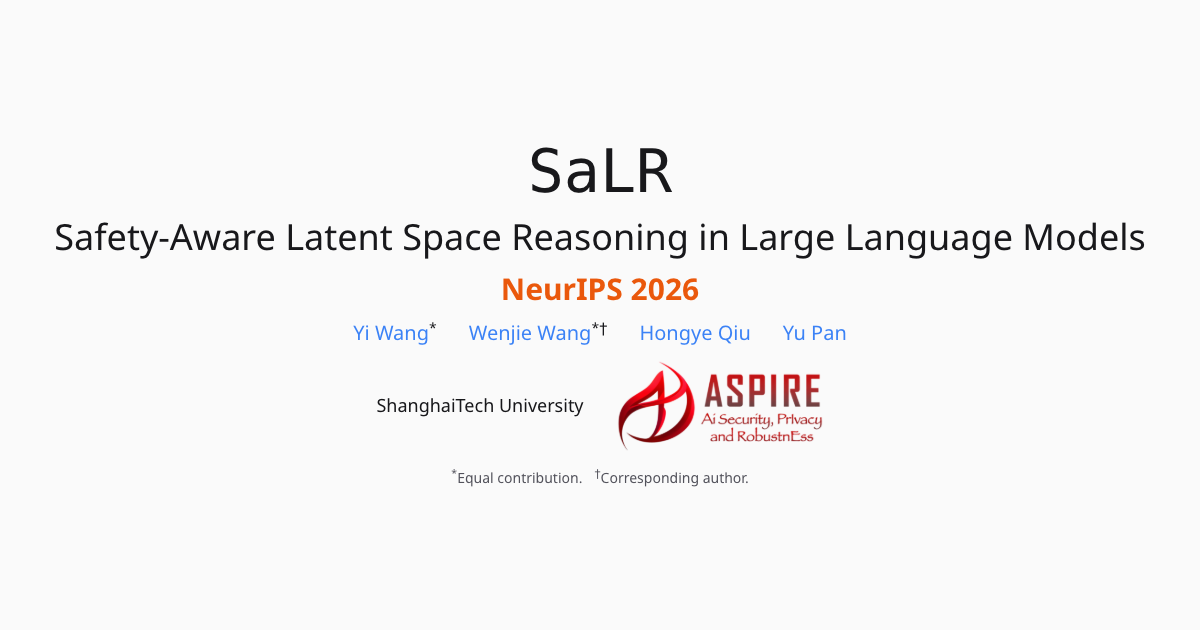
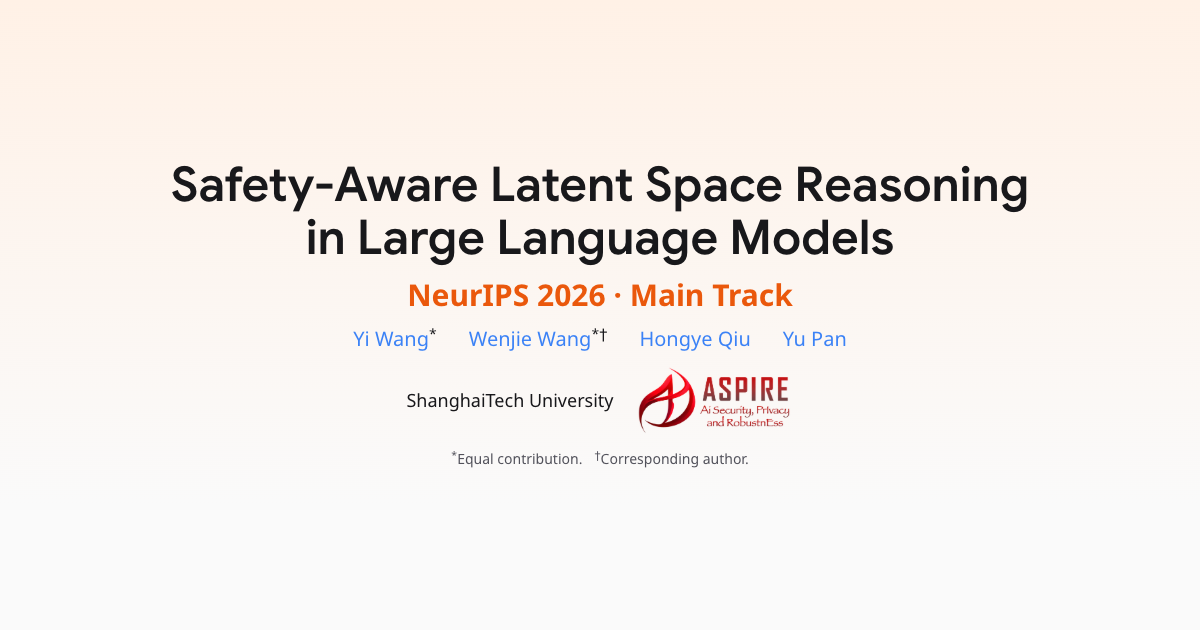
update

Changed region(s): [[0.0308, 0.2111, 0.9558, 0.4825], [0.2775, 0.5127, 0.6783, 0.7841], [0.6475, 0.5127, 0.7092, 0.5429]]

diff --git a/src/styles/salr.css b/src/styles/salr.css
@@ -616,7 +616,7 @@ main .metric-source {
   font-size: 0.875rem;
   color: var(--page-muted);
 }
-.table-scroll .salr-row > *,
+.table-scroll tbody tr.salr-row > *,
 .table-scroll .salr-value {
   background: #fff7ed;
   color: #9a3412;

diff --git a/README.md b/README.md
@@ -30,7 +30,7 @@ The GitHub Actions workflow deploys to GitHub Pages when pushed to `main`. Enabl
 - `public/figures/`: SVG exports of the supplied overview and method PDFs. Text is outlined; original embedded images are preserved.
 - `src/styles/salr.css`: SaLR-specific presentation on top of the template.
 
-The headline token comparison uses the 1B OOD averages (293.3 / 7.5 ≈ 39×); it is not a latency claim. The overview figure is reproduced from the paper, with its original plotting conventions. Detailed web tables use the paper's reported values without recomputing standard deviations.
+The headline token comparison uses the 3B averages across all four math benchmarks (293.8 / 7.4 ≈ 40×). The overview figure is reproduced from the paper, with its original plotting conventions. Detailed web tables use the paper's reported values without recomputing standard deviations.
 
 The page follows Impact → Overview → Methodology → Results → Citation. Figure explanations use the original SVG assets; playback starts only when requested, respects reduced-motion preferences, and pauses when the figure leaves view.
 
